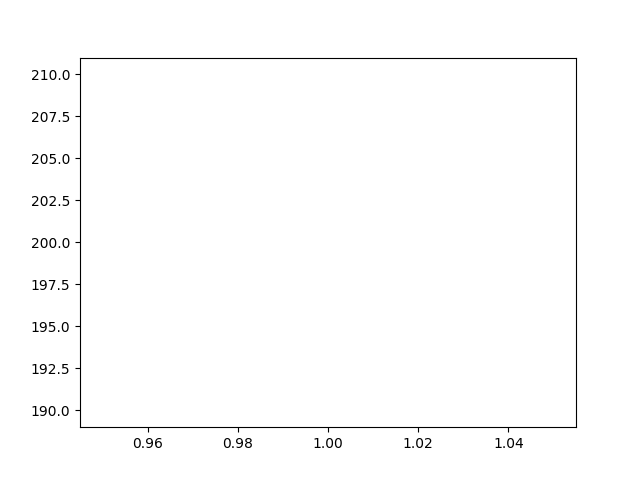
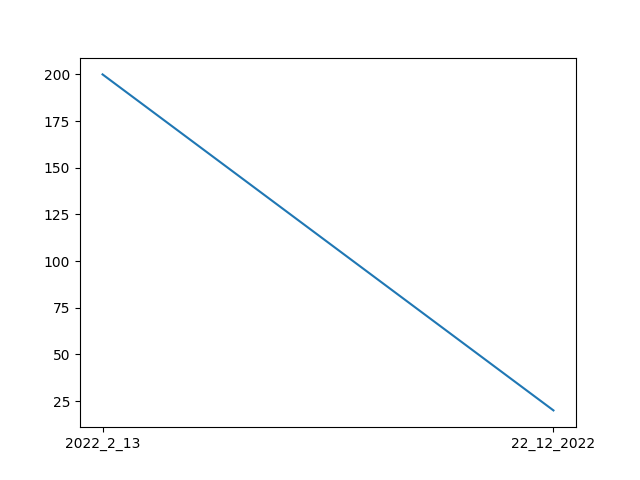
selection box

diff --git a/windows/main_window.py b/windows/main_window.py
@@ -1,7 +1,7 @@
 import json
 from tkinter import *
 from tkinter.font import *
-# from ttk import *
+from tkinter import ttk
 from PIL import Image, ImageTk
 from windows.setting_window import open_settings
 from windows.profile_window import open_profile
@@ -139,7 +139,7 @@ def open_win(user, xxxx = None, yyyy = None):
     info_in.insert(0, 'Info')
 
     def save_input():
-        amount = amount_in.get()
+        amount = int(amount_in.get())
         amount_in.delete(0, END)
         date = date_in.get()
         date_in.delete(0, END)
@@ -150,7 +150,7 @@ def open_win(user, xxxx = None, yyyy = None):
         li = last_id_admin('transsaction_id') + 1
         # user.append_data_json(amount, date, info)
         # create_table(user)
-        lk = last_bankkonto_admin(li - 1, 'kontostand') + amount
+        lk = last_bankkonto_admin(li - 1, 'bankkonto') + amount
         add_to_tabel(user, (amount, lk, int(date_split[0]), int(date_split[1]), int(date_split[2]), info, date, li))
         print_tabel(user)
 
@@ -163,14 +163,22 @@ def open_win(user, xxxx = None, yyyy = None):
 
     save_button = Button(button_frame, text=lang_buttons_save, font=(schriftart, 11), border=0, command=save_input)
     # label.pack(side='left', expand=True, padx=10)
-    save_button.grid(column=0, row=0)
+    save_button.grid(column=0, row=0, padx=5)
 
     v = ['Acc 1', 'Acc 2']
-    vs = StringVar(window)
-    vs.set('Acc 1')
+    # vs = StringVar(window)
+    # vs.set('Acc 1')
 
-    acc_switch = OptionMenu(button_frame, vs,*v) #, bg='#202124', fg='#202124'
-    acc_switch.grid(column=1, row=0)
+    # acc_switch = OptionMenu(button_frame, vs,*v) #, bg='#202124', fg='#202124'
+    # acc_switch.grid(column=1, row=0)
+
+    acc_selection_box = ttk.Combobox(button_frame, values=v)
+    acc_selection_box.grid(column=1, row=0, padx=5)
+
+    k_oder_a = ['Konto', 'Ausgaben/Einnahmen']
+
+    acc_selection_box = ttk.Combobox(button_frame, values=k_oder_a)
+    acc_selection_box.grid(column=2, row=0, padx=5)
 
     plot_image = PhotoImage(file=r'../user/'+ user.lower_name +'/'+ user.plot+'.png')
     l_photo = Label(middel_frame, image=plot_image)
@@ -179,7 +187,7 @@ def open_win(user, xxxx = None, yyyy = None):
         tmp_make_plot()
         time.sleep(0.1)
         print('plot erfolgreich gebildet')
-        time.sleep(0.1)
+        time.sleep(0.3)
         con_path = r'../user/'+ user.lower_name + '/'+user.plot+'.png'
         plot_image_conf = PhotoImage(file=con_path)
         l_photo.config(image=plot_image_conf)
@@ -189,7 +197,7 @@ def open_win(user, xxxx = None, yyyy = None):
 
     plot_button = Button(button_frame, text=lang_buttons_plot, font=(schriftart, 11), border=0, command=show_new_plot)
     # h_button.pack(side='right', expand=True,)                                                         lambda: threading.Thread(target=show_new_plot()).start()
-    plot_button.grid(column=2, row=0)
+    plot_button.grid(column=3, row=0)
 
     graph_frame = Frame(master=middel_frame)
     graph_frame.pack()

diff --git a/sourse/sql_probe.py b/sourse/sql_probe.py
@@ -41,7 +41,7 @@ def add_new_colum_admin():
 def last_bankkonto_admin(n, wts):
     with sqlite3.connect(r'../user/admin/sql_data.db') as database:
         for i in database.execute(f'select {wts} from data Where transsaction_id = {n}'):
-            return i
+            return i[0]
 
 def last_id_admin(wts):
     with sqlite3.connect(r'../user/admin/sql_data.db') as database:

diff --git a/plots/plot.py b/plots/plot.py
@@ -34,10 +34,11 @@ def make_plot(user, beginn = None, end = None):
     plt.plot(x, y)
     path = r'../user/'+ user_path +'/'+ tmp_last_plot+'.png'
     
-
+    print('ok 1')
     plt.savefig(path)     
     plt.close()
 
+    print('ok 2')
     user.save_plot(tmp_last_plot)
     user.plot = tmp_last_plot
     print(f'last: {tmp_last_plot}, {user.plot}')
